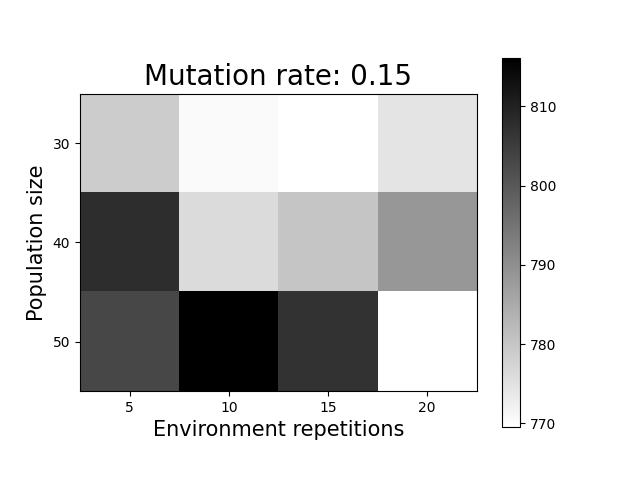
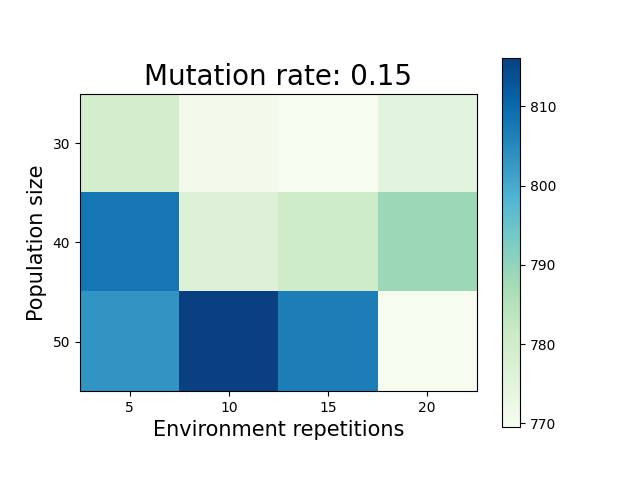
.

Changed region(s): [[0.125, 0.1875, 0.75, 0.8125], [0.7812, 0.125, 0.8125, 0.7812]]

diff --git a/Tuning_data_ga/plots_hyperparameter_tuning.py b/Tuning_data_ga/plots_hyperparameter_tuning.py
@@ -1,16 +1,17 @@
 import csv
 from statistics import mean
 
-filename = "Tuning_data_ga/edge_weight/validator_test.csv"
-encoding = "Edge weight" 
-# filename = "Tuning_data_ga/node_vector/validator_test.csv"
-# encoding = "Node vector"
+# filename = "Tuning_data_ga/edge_weight/validator_test.csv"
+# encoding = "Edge weight" 
+filename = "Tuning_data_ga/node_vector/validator_test.csv"
+encoding = "Node vector"
 
 title_size = 20
 xlabel_size = 15
 ylabel_size = 15
 
-colormap = 'binary'
+#colormap = 'binary'
+colormap = 'GnBu'
 save = True
 
 soc_list = []
